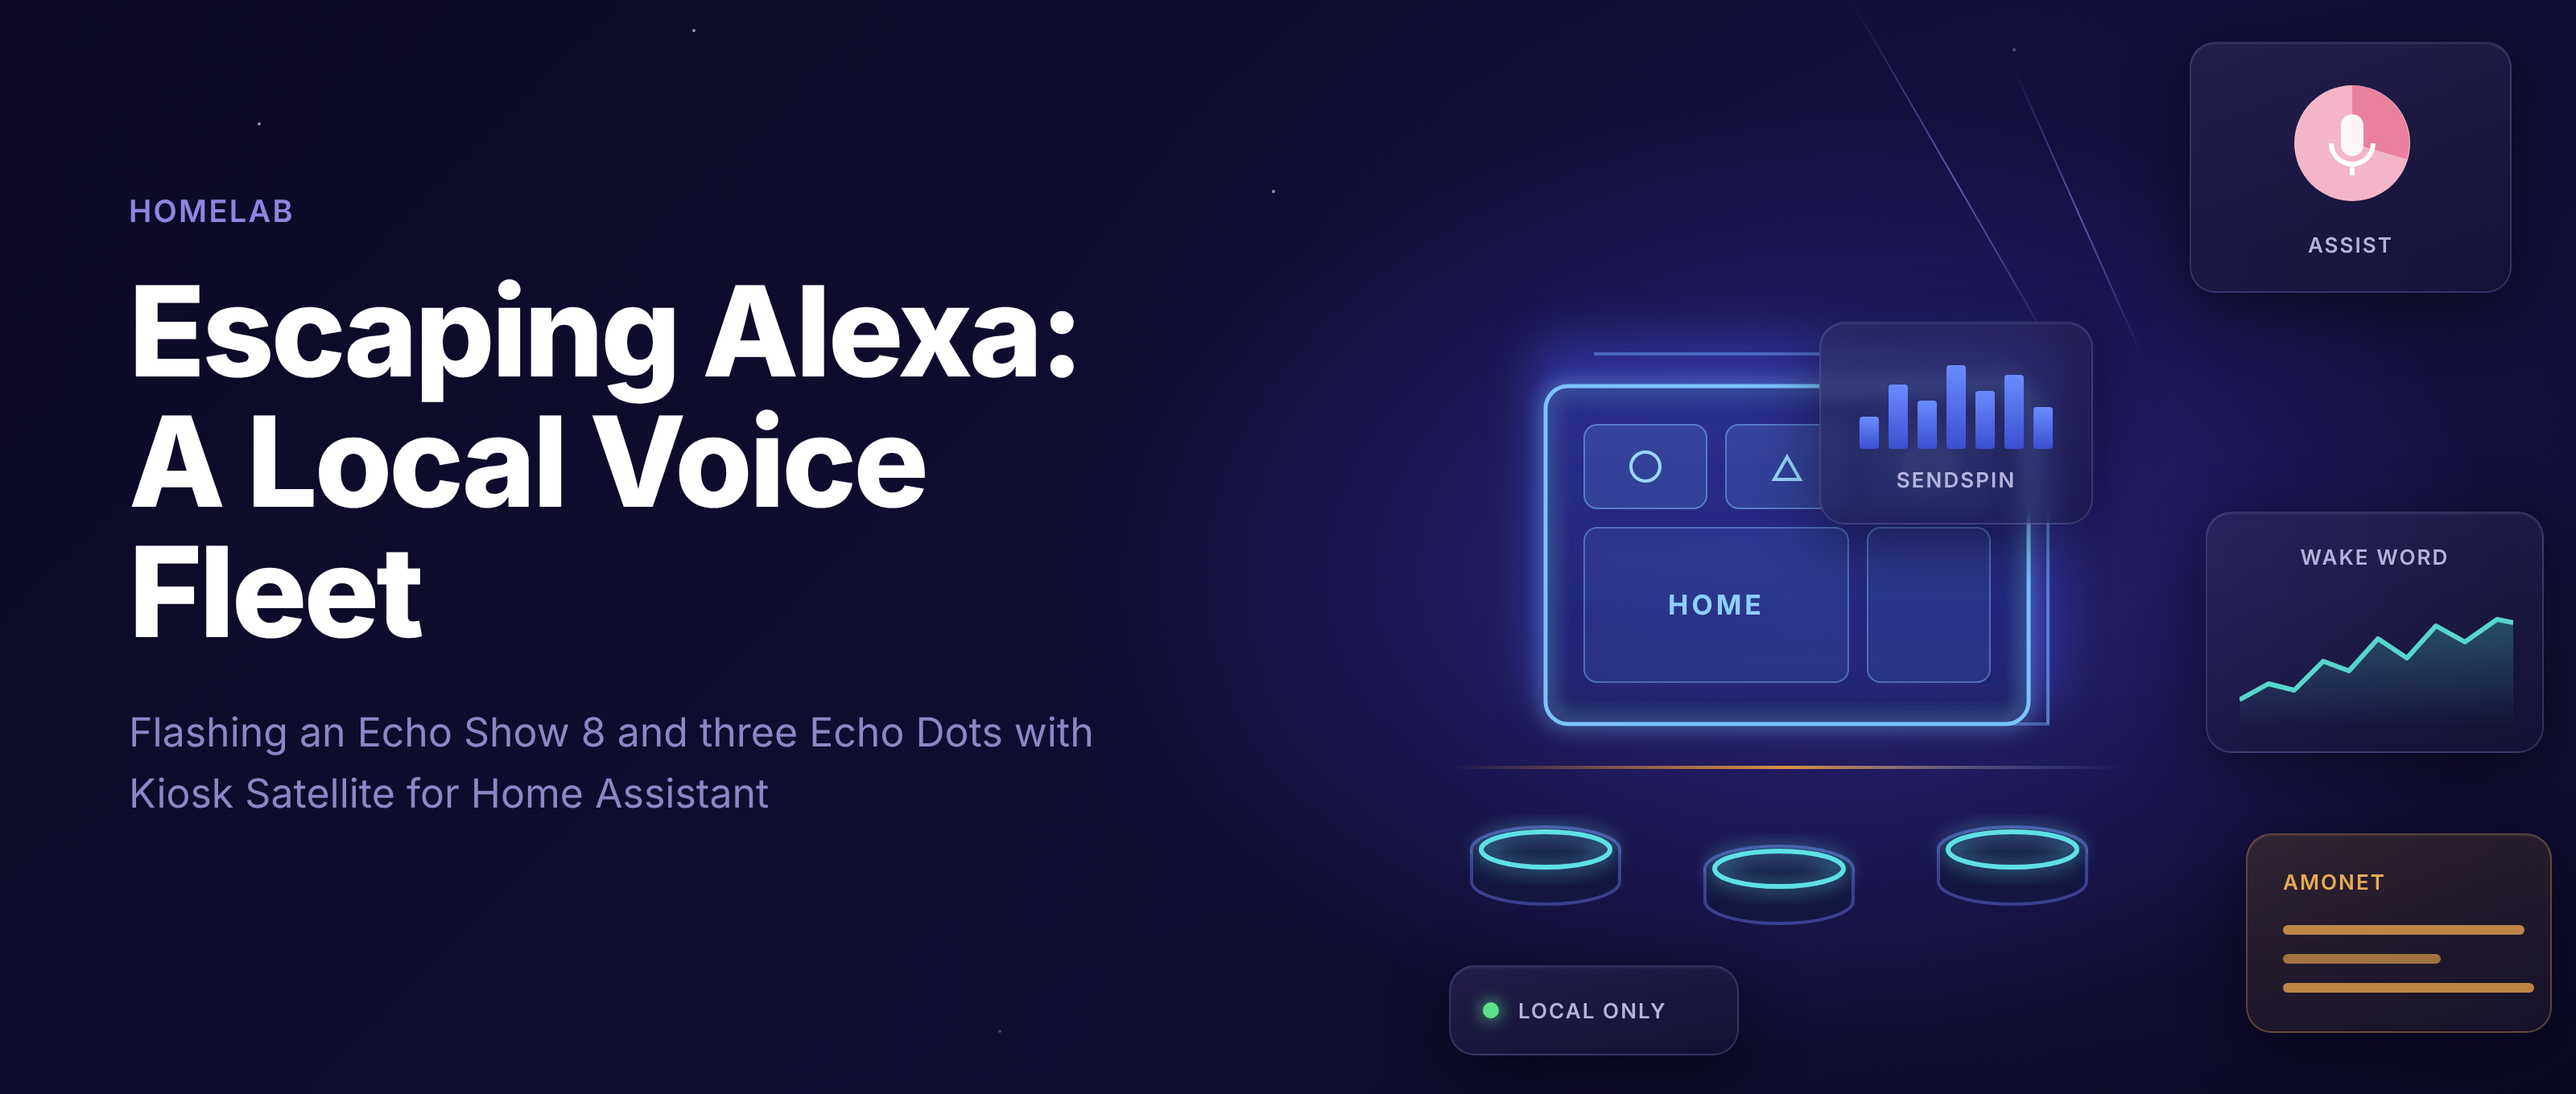
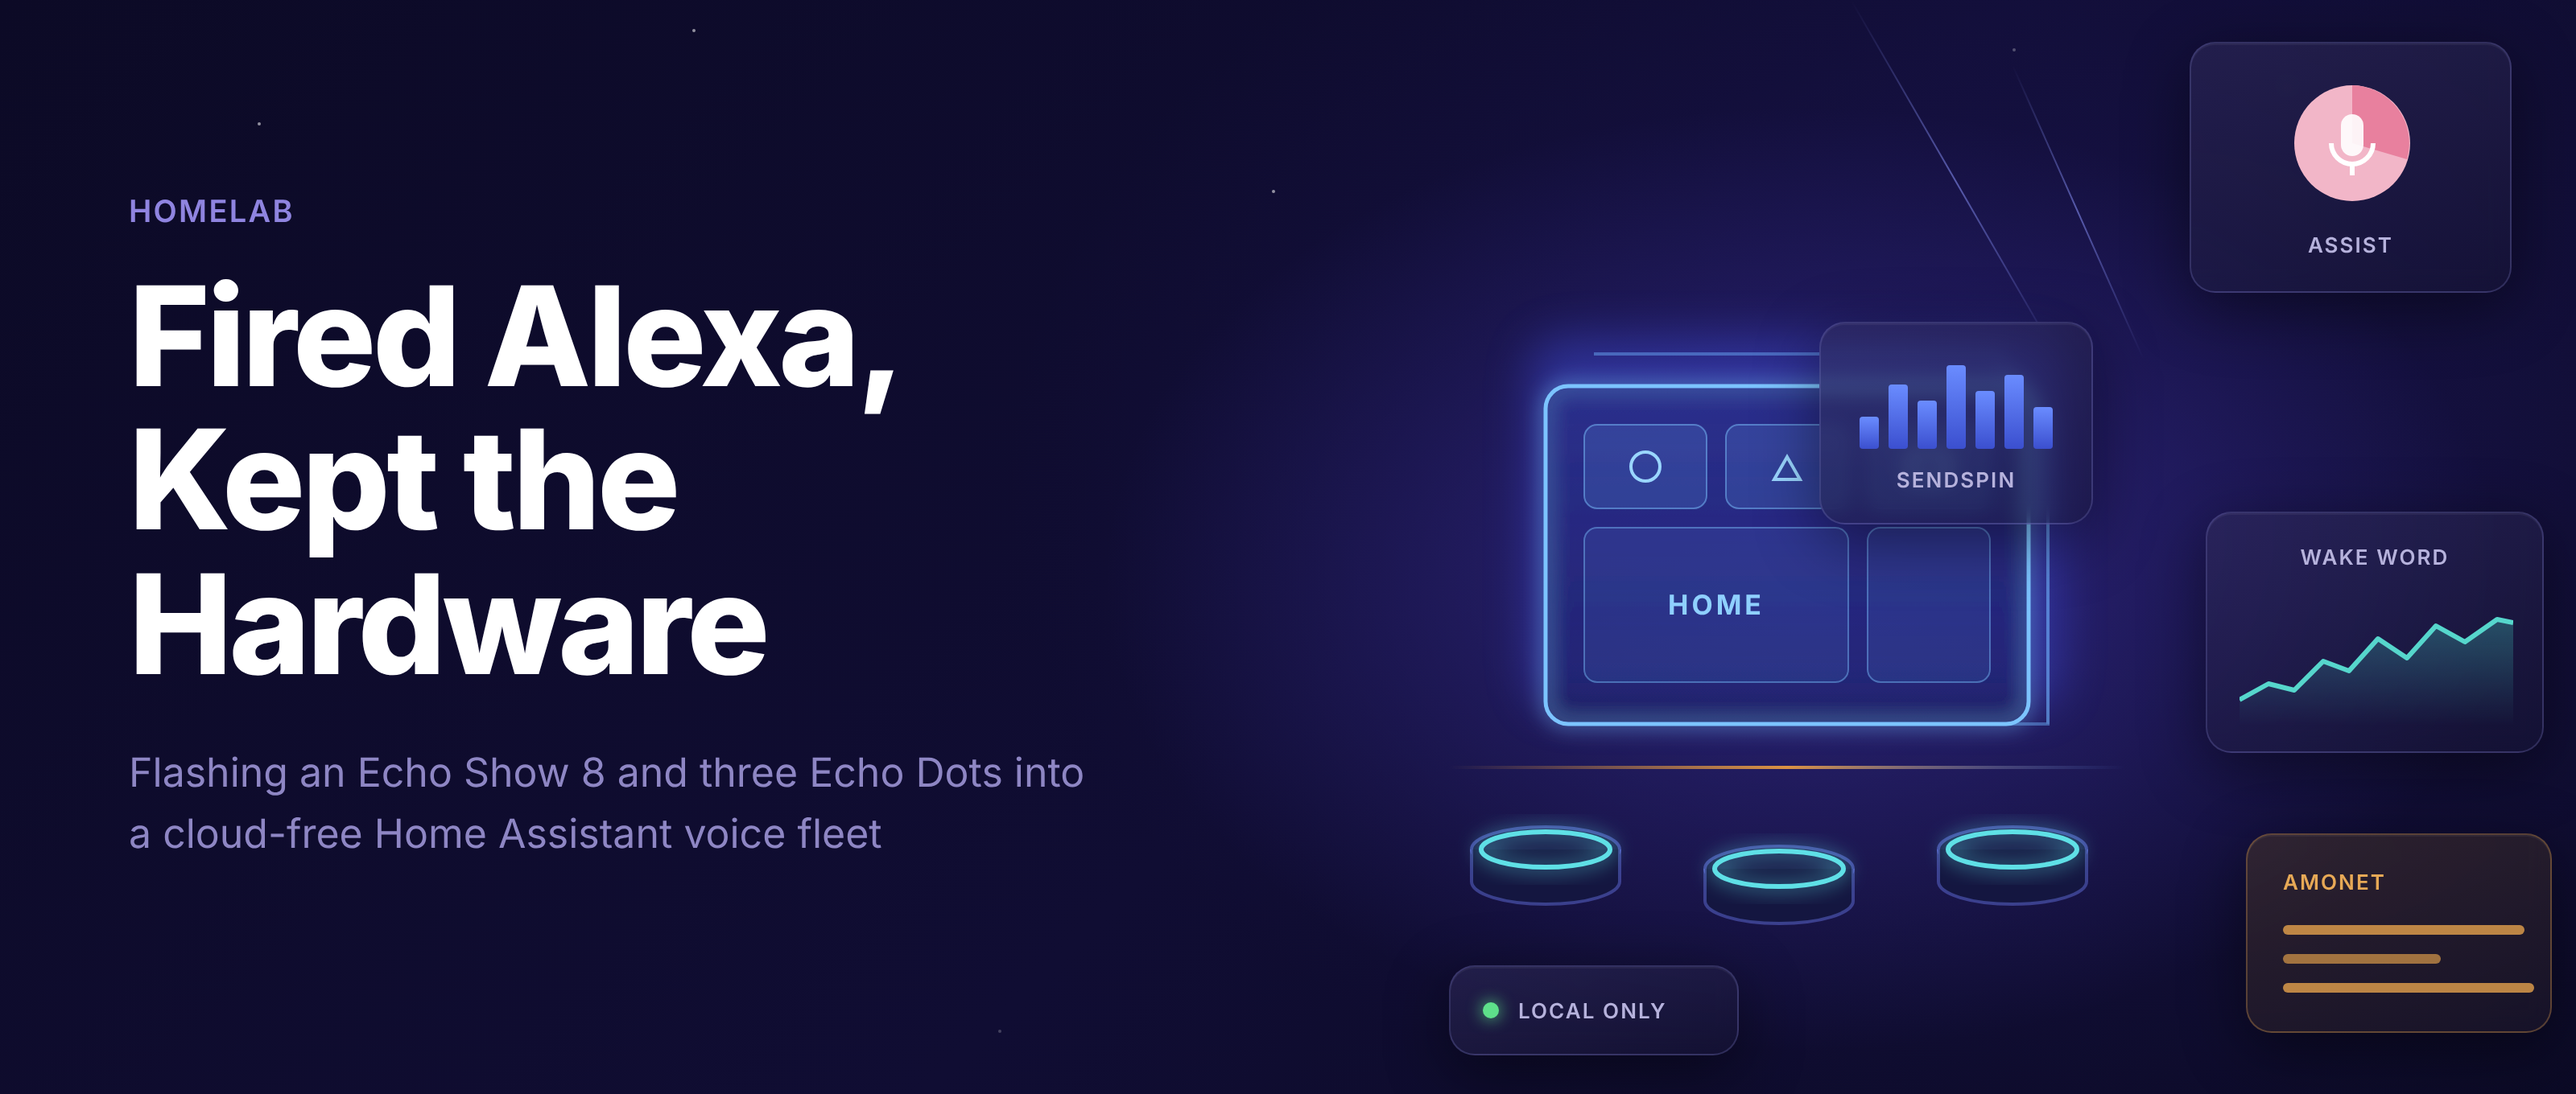
Retitle to Fired Alexa, Kept the Hardware; add Dot button method, inline XDA and upstream links, web admin and fleet guide

Changed region(s): [[0.0312, 0.2471, 0.4375, 0.6176], [0.0312, 0.6485, 0.4375, 0.7721]]

diff --git a/assets/banner.html b/assets/banner.html
@@ -20,7 +20,7 @@
 
   .text { position: absolute; left: 80px; top: 120px; width: 700px; }
   .label { font-size: 19px; font-weight: 600; letter-spacing: 0.06em; color: #8f84e0; margin-bottom: 22px; }
-  h1 { font-size: 78px; line-height: 1.04; font-weight: 800; letter-spacing: -0.025em; }
+  h1 { font-size: 86px; line-height: 1.04; font-weight: 800; letter-spacing: -0.025em; }
   .sub { margin-top: 30px; font-size: 25px; line-height: 1.5; color: #8e86c4; font-weight: 400; width: 600px; }
 
   .card {
@@ -49,8 +49,8 @@
 
   <div class="text">
     <div class="label">HOMELAB</div>
-    <h1>Escaping Alexa:<br>A Local Voice<br>Fleet</h1>
-    <div class="sub">Flashing an Echo Show 8 and three Echo Dots with Kiosk Satellite for Home Assistant</div>
+    <h1>Fired Alexa,<br>Kept the<br>Hardware</h1>
+    <div class="sub">Flashing an Echo Show 8 and three Echo Dots into a cloud-free Home Assistant voice fleet</div>
   </div>
 
   <!-- central device art -->

diff --git a/README.md b/README.md
@@ -1,6 +1,8 @@
-![Escaping Alexa: A Local Voice Fleet](assets/banner.png)
+![Fired Alexa, Kept the Hardware](assets/banner.png)
 
-# Escaping Alexa: an Echo Show 8 and three Echo Dots as a Home Assistant voice fleet
+# Fired Alexa, Kept the Hardware
+
+Flashing an Echo Show 8 and three Echo Dots into a cloud-free Home Assistant voice fleet.
 
 Notes, checks and helper scripts from flashing an Echo Show 8 (1st gen) and three Echo Dots (2nd gen) with LineageOS and [Kiosk Satellite](https://github.com/jxlarrea/kiosk-satellite), so they work as local Home Assistant voice satellites with no Alexa and no Amazon account.
 
@@ -27,7 +29,8 @@ Other generations are not supported. The 2nd- and 3rd-gen Echo Show 8 use chips 
 2. [Flash the Echo Show 8](docs/02-echo-show-8.md)
 3. [Flash each Echo Dot](docs/03-echo-dot-2nd-gen.md)
 4. [Add the fleet to Home Assistant and Music Assistant](docs/04-home-assistant.md)
-5. [Troubleshooting](docs/troubleshooting.md)
+5. [Web admin and Fleet Management](docs/05-web-admin-and-fleet.md)
+6. [Troubleshooting](docs/troubleshooting.md)
 
 ## Scripts
 
@@ -44,8 +47,9 @@ Every script stops and asks before it wipes or writes anything.
 
 This repo has no amonet binaries, LineageOS images, Amazon firmware or Amazon wake word models. Download amonet and the images from their upstream projects:
 
-- amonet (k4y0z and R0rt1z2): [Echo Show 8 crown thread on XDA](https://xdaforums.com/t/unlock-root-twrp-unbrick-amazon-echo-show-8-1st-gen-2019-crown.4766687/), and the biscuit package for the Dot
-- Kiosk images (jxlarrea): [lineageos-echo-kiosk-satellite releases](https://github.com/jxlarrea/lineageos-echo-kiosk-satellite/releases)
+- amonet (k4y0z and R0rt1z2): [Echo Show 8 (crown) on XDA](https://xdaforums.com/t/unlock-root-twrp-unbrick-amazon-echo-show-8-1st-gen-2019-crown.4766687/) and [Echo Dot (biscuit) on XDA](https://xdaforums.com/t/unlock-root-twrp-unbrick-amazon-echo-dot-2nd-gen-2016-biscuit.4761416/)
+- Kiosk images (jxlarrea): [Echo Show 8 releases](https://github.com/jxlarrea/lineageos-echo-kiosk-satellite/releases?q=crown) and [Echo Dot releases](https://github.com/jxlarrea/lineageos-echo-kiosk-satellite/releases?q=biscuit)
+- Upstream guides: [Echo Show 8 install](https://github.com/jxlarrea/lineageos-echo-kiosk-satellite/blob/main/docs/echo-show-8.md) and [Echo Dot unlocking notes](https://github.com/jxlarrea/lineageos-echo-kiosk-satellite/blob/main/docs/unlocking.md#echo-dot-2nd-gen)
 
 ## Credits
 

diff --git a/docs/05-web-admin-and-fleet.md b/docs/05-web-admin-and-fleet.md
@@ -1,0 +1,40 @@
+# 5. Web admin and Fleet Management
+
+## Reach a device's web admin
+
+Every kiosk serves its own admin page on port 2324. The Dots have no screen, so this is the only way to set them up.
+
+1. Find the device's IP address:
+
+   ```sh
+   adb shell echo_service wifi
+   ```
+
+   on the Show, or
+
+   ```sh
+   adb shell ip -4 addr show wlan0
+   ```
+
+   on a Dot. Your router's DHCP lease list works too.
+
+2. Open `http://<device-ip>:2324` in a browser on the same network. It's plain HTTP, so the browser shows "Not secure". Keep it on your LAN.
+3. Log in with the remote admin password set in the setup wizard.
+
+The **Overview** page shows a live screenshot (every 5 seconds) and a status grid: Home Assistant, Voice Satellite and its wake word, ESPHome, media player, service, app version, CPU, RAM and temperature.
+
+![Kiosk Satellite web admin Overview](../assets/photos/19-remote-admin-overview.png)
+
+To rename a device, use **Settings > Device**. I named mine `ks-amzn-echo-show-8` and `ks-amzn-echo-dot-<last octet of its IP>`.
+
+## Build the fleet
+
+One kiosk leads and the others follow its settings. All kiosks must run the same Kiosk Satellite version.
+
+1. In the leader's web admin (the Show, in my case), open **Fleet Management** and turn on **Lead this fleet**.
+2. Under **Add a kiosk**, click **Add**, then pick a discovered kiosk or enter its IP address.
+3. Accept the invitation on the follower, either on its screen or in its remote admin. For the Dots, use the remote admin.
+
+The leader lists each follower with its IP address, app version and last sync time.
+
+![Fleet Management with the Show leading three Dots](../assets/photos/20-fleet-management.png)

diff --git a/docs/03-echo-dot-2nd-gen.md b/docs/03-echo-dot-2nd-gen.md
@@ -5,11 +5,18 @@ Repeat this page once per Dot. The Dot has no screen, so the light ring is your 
 ## Before you start
 
 - Deregister the Dot from your Amazon account.
-- Download `amonet-biscuit` v2 and the newest biscuit release of [lineageos-echo-kiosk-satellite](https://github.com/jxlarrea/lineageos-echo-kiosk-satellite/releases).
+- Download `amonet-biscuit` v2 from the [XDA guide](https://xdaforums.com/t/unlock-root-twrp-unbrick-amazon-echo-dot-2nd-gen-2016-biscuit.4761416/) and the newest [Echo Dot release](https://github.com/jxlarrea/lineageos-echo-kiosk-satellite/releases?q=biscuit).
 
 ## Step 1: Unlock with amonet
 
-Put the Dot in fastboot mode: *[add the method you used]*. Connect it, then:
+This follows R0rt1z2's [XDA guide for the Echo Dot](https://xdaforums.com/t/unlock-root-twrp-unbrick-amazon-echo-dot-2nd-gen-2016-biscuit.4761416/) and jxlarrea's [unlocking notes](https://github.com/jxlarrea/lineageos-echo-kiosk-satellite/blob/main/docs/unlocking.md#echo-dot-2nd-gen). No disassembly is needed.
+
+1. Unplug the Dot.
+2. Press and hold the **Action** button (the one with the single dot).
+3. Keep holding it while you plug in the micro-USB cable from your Linux host.
+4. The light ring turns **green**, then the host detects the Dot. Check with `lsusb | grep -i 1949`.
+
+Then:
 
 ```sh
 cd amonet-biscuit-v2.0.1/amonet
@@ -23,6 +30,8 @@ Detected: BISCUIT - Echo Dot 2nd Generation - 2016
 LK build: f379dba-20170906_000423
 Will use payload: fastbrick.img
 ```
+
+![amonet-fastbrick on an Echo Dot, then the recovery checks](../assets/photos/18-amonet-biscuit-terminal.png)
 
 Type `YES`. Sending the payload "might take a few attempts". It ends with:
 

diff --git a/docs/02-echo-show-8.md b/docs/02-echo-show-8.md
@@ -10,7 +10,7 @@ Model **C7H6N3** only. The number is on the bottom of the device, next to the FC
 
 ## Step 1: Unlock with amonet
 
-Enter fastboot:
+This follows R0rt1z2's [XDA guide for the Echo Show 8](https://xdaforums.com/t/unlock-root-twrp-unbrick-amazon-echo-show-8-1st-gen-2019-crown.4766687/). Enter fastboot:
 
 1. Unplug power.
 2. Hold **Volume Down + Volume Up + Mute** together.
@@ -23,6 +23,8 @@ sudo ./fastbrick.sh
 ```
 
 Expected detection:
+
+![amonet-fastbrick on the Echo Show 8](../assets/photos/17-amonet-crown-terminal.png)
 
 ```
 Detected: CROWN - Echo Show 8 1st Generation - 2019
@@ -49,6 +51,8 @@ adb shell getprop ro.twrp.version
 Any other TWRP version means the unlock didn't finish. Stop and go back to the XDA thread. `scripts/check-recovery.sh show8` runs both checks.
 
 ## Step 3: Wipe and install
+
+This follows jxlarrea's [Echo Show 8 install guide](https://github.com/jxlarrea/lineageos-echo-kiosk-satellite/blob/main/docs/echo-show-8.md).
 
 ```sh
 adb shell twrp wipe cache

diff --git a/assets/photos/README.md b/assets/photos/README.md
@@ -13,3 +13,7 @@
 | 10-13-fleet-night*.jpg | The fleet at night |
 | 14-dot-light-ring-after-unlock.gif/.mp4 | A Dot's light ring after the unlock |
 | 15/16-fleet-light-rings*.gif/.mp4 | The finished fleet with light rings animating |
+| 17-amonet-crown-terminal.png | amonet-fastbrick unlocking the Echo Show 8 |
+| 18-amonet-biscuit-terminal.png | amonet-fastbrick unlocking an Echo Dot, then recovery checks |
+| 19-remote-admin-overview.png | Kiosk Satellite web admin Overview for the Show |
+| 20-fleet-management.png | Fleet Management: the Show leading three Dots |
